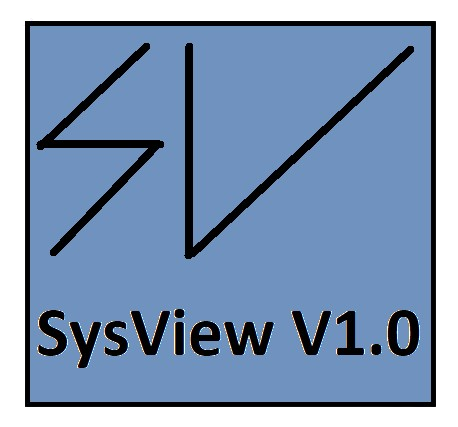
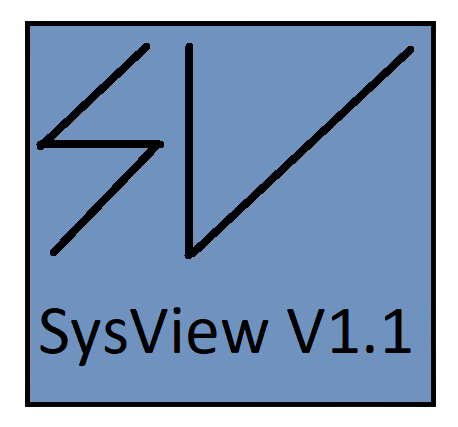
Added Save to file option (HTML report not working yet)

Changed region(s): [[0.0611, 0.7002, 0.917, 0.8829]]

diff --git a/main.py b/main.py
@@ -1,5 +1,6 @@
 # Built-in libraries
 import datetime
+import json
 import os
 import sys
 import shutil
@@ -17,13 +18,13 @@ from statistics import mean
 from rich import print as rprint
 from rich.console import Console
 from textual.app import App, Screen, ComposeResult, SystemCommand
-from textual.widgets import Header, Label, Footer, DataTable, Static
+from textual.widgets import Header, Label, Footer, DataTable, Input, Select, Button
 from textual.containers import Container, Horizontal, Vertical, VerticalScroll
 from textual.widget import Widget
 from textual.binding import Binding
 
 # Constants
-TITLE = "SysView 1.0.1"
+TITLE = "SysView 1.1.0"
 
 # Handle PyInstaller Splash Image
 try:
@@ -370,7 +371,7 @@ class MainScreen(Screen):
                 gpu1_fan_1_color = get_gpu_fan_color(gpu1_fan_1)
             except KeyError:
                 try:
-                    gpu1_fan_1 = gpu1_data['Fan: GPU']
+                    gpu1_fan_1 = gpu1_data['Fan: GPU Fan']
                     gpu1_fan_1_color = get_gpu_fan_color(gpu1_fan_1)
                 except KeyError:
                     gpu1_fan_1 = f"Not Detected"
@@ -397,7 +398,7 @@ class MainScreen(Screen):
         self.label_cpu_freqc.update(F"CPU Frequency    [{cpu_freq_color}]{round(cpu_freq, 1)}[/{cpu_freq_color}] MHz")
         self.label_cpu_power.update(F"CPU Power:       [{cpu_power_color}]{round(cpu_power, 1)}[/{cpu_power_color}] W")
         self.label_cpu_tempC.update(F"CPU Temperature: [{cpu_temp_color}]{cpu_temp}[/{cpu_temp_color}] *C")
-        self.label_cpu_voltage.update(F"CPU Voltage:     [{cpu_volt_color}]{round(cpu_volt, 1)}[/{cpu_volt_color}] V")
+        self.label_cpu_voltage.update(F"CPU Voltage:     [{cpu_volt_color}]{round(cpu_volt, 3)}[/{cpu_volt_color}] V")
 
         # self.label_ram_status.update(F"RAM Memory Used:  {ram_used} / {RAM_DTCT} GB ({round((ram_used/RAM_DTCT)*100, 1)} %)")
         # self.label_swp_status.update(F"SWAP Memory Used:  {swap_used} /  {SWP_DTCT} GB ({round((swap_used/SWP_DTCT)*100, 1)} %)")
@@ -435,7 +436,7 @@ class MainScreen(Screen):
         for drive in DRIVES:
             total, used, free = shutil.disk_usage(drive)
             hdd_rows.append(
-                (f"{drive}", f"{round(used/(1024**3), 1)} GB", f"{round(free/(1024**3), 1)} GB", f"{round(used/total, 1)} %")
+                (f"{drive}", f"{round(used/(1024**3), 1)} GB", f"{round(free/(1024**3), 1)} GB", f"{round(used*100/total, 1)} %")
             )
 
         for row in hdd_rows:
@@ -555,8 +556,86 @@ class CPUDetails(Screen):
 #     def __init__(self):
 #         self.
 
+class SaveScreen(Screen):
+    def compose(self) -> ComposeResult:
+        yield Header()
+        yield Container(
+            Input(placeholder="Enter save path", id='path'),
+            Select([("TXT File", "txt"), ("JSON data", "json"), ("HTML Report", "html")], prompt="Select file format", id='fs'),
+            Horizontal(Button("Save", variant='success', id='save'), Button("Cancel", variant='error', id='back')),
+            id='dialog'
+        )
+        yield Footer()
+
+    def on_button_pressed(self, event):
+        selector = self.query_one("#fs", Select)
+        pathholder = self.query_one("#path", Input)
+
+        mode = selector.value
+        filepath = pathholder.value
+        data = get_sensor_data(computer)
+        if event.button.id == "save":
+            if mode == "txt":
+                content = f"""
+------------------------------+ SysView Sensor Data Readout +------------------------------
+============ CPU DATA ============
+CPU Name:........ {CPU_NAME}
+CPU Usage:....... {psutil.cpu_percent(0.1)} %
+CPU Frequency:... {round(mean([data[CPU_NAME][f'Clock: CPU Core #{i+1}'] for i in range(os.cpu_count())]))} MHz
+CPU Temperature:. {data[CPU_NAME]["Temperature: CPU Package"]} *C
+CPU Power Usage:. {round(data[CPU_NAME]["Power: CPU Package"], 1)} W
+CPU Core Voltage: {round(data[CPU_NAME]["Voltage: CPU Core"], 3)} V
+
+============ RAM DATA ============
+RAM Name:  {RAM_NAME}
+RAM Used:  {psutil.virtual_memory().used} GB
+RAM Total: {RAM_DTCT} GB
+"""
+
+
+            elif mode == "json":
+                content = json.dumps(get_sensor_data(computer))
+
+            try:
+                with open(filepath, "x") as file:
+                    file.write(content)
+                    self.app.push_screen(FileSavedInfo())
+            except FileExistsError:
+                self.app.push_screen(FileExists())
+
+        else: self.app.pop_screen()
+
+
+class FileExists(Screen):
+    def compose(self) -> ComposeResult:
+        yield Container(
+            Label("Error while saving file!"),
+            Label("[red]FileExistsError[/]: [yellow]File already exists![/]"),
+            Button("OK", variant='primary'),
+            id='popup'
+        )
+
+    def on_button_pressed(self):
+        self.app.pop_screen()
+
+
+class FileSavedInfo(Screen):
+    def compose(self):
+        yield Container(
+            Label("File Saved Successfully"),
+            Button("OK"),
+            id='popup'
+        )
+
+    def on_button_pressed(self, event):
+        self.app.pop_screen()
+
 class Launcher(App):
     CSS = """
+    
+    Screen {
+        align: center middle;
+    }
     
     .titled-section {
         border: solid white;
@@ -570,6 +649,36 @@ class Launcher(App):
     
     .section-title {
         text-style: bold;
+    }
+    
+    
+    Input {
+        margin: 2;
+    }
+    
+    Select {
+        margin: 2;
+    }
+    
+    Button {
+        margin: 1;
+        width: 1fr;
+    }
+    
+    #dialog {
+        align: center middle;
+        border: solid white;
+        width: 50%;
+        height: 60%;
+    }
+    
+    #popup {
+        align: center middle;
+        width: 50%;
+        height: auto;
+        border: round white;
+        padding: 2 4;
+        background: grey;
     }
     """
 
@@ -585,6 +694,7 @@ class Launcher(App):
         yield SystemCommand("Quit", "Quit the app", sys.exit)
         yield SystemCommand("Main Screen", "Go to main screen", lambda: self.push_screen(MainScreen()))
         yield SystemCommand("CPU Info", "Detailed CPU Information", lambda: self.push_screen(CPUDetails()))
+        yield SystemCommand("Save Report", "Save these data into file", lambda: self.push_screen(SaveScreen()))
 
     def on_mount(self):
         self.title = TITLE
@@ -650,3 +760,4 @@ if __name__ == '__main__':
     rprint("[cyan]INFO: Releasing drivers...")
     computer.Close()
     rprint("[green]DONE: Done![/]")
+    rprint("Exit Code: 0")
